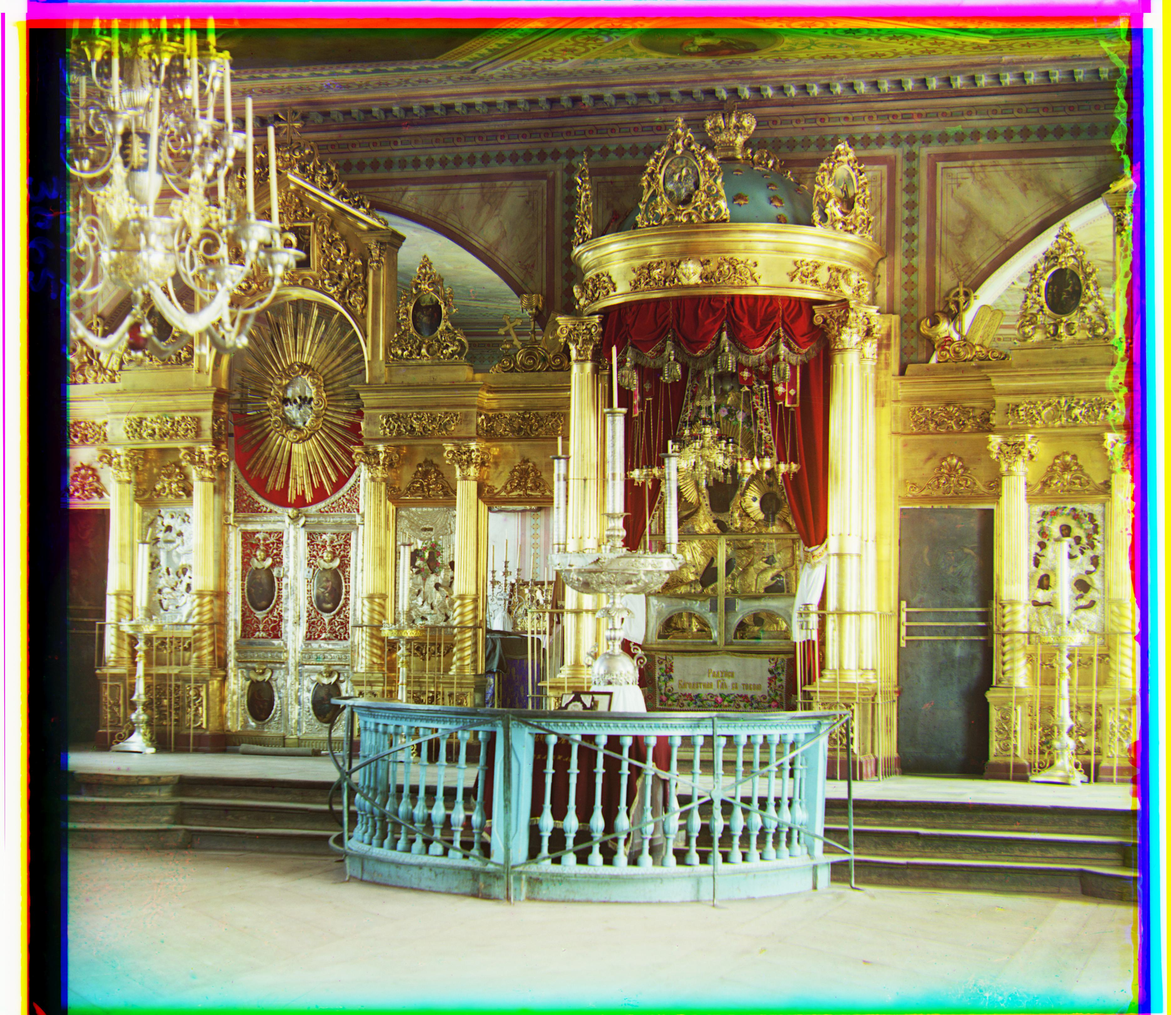
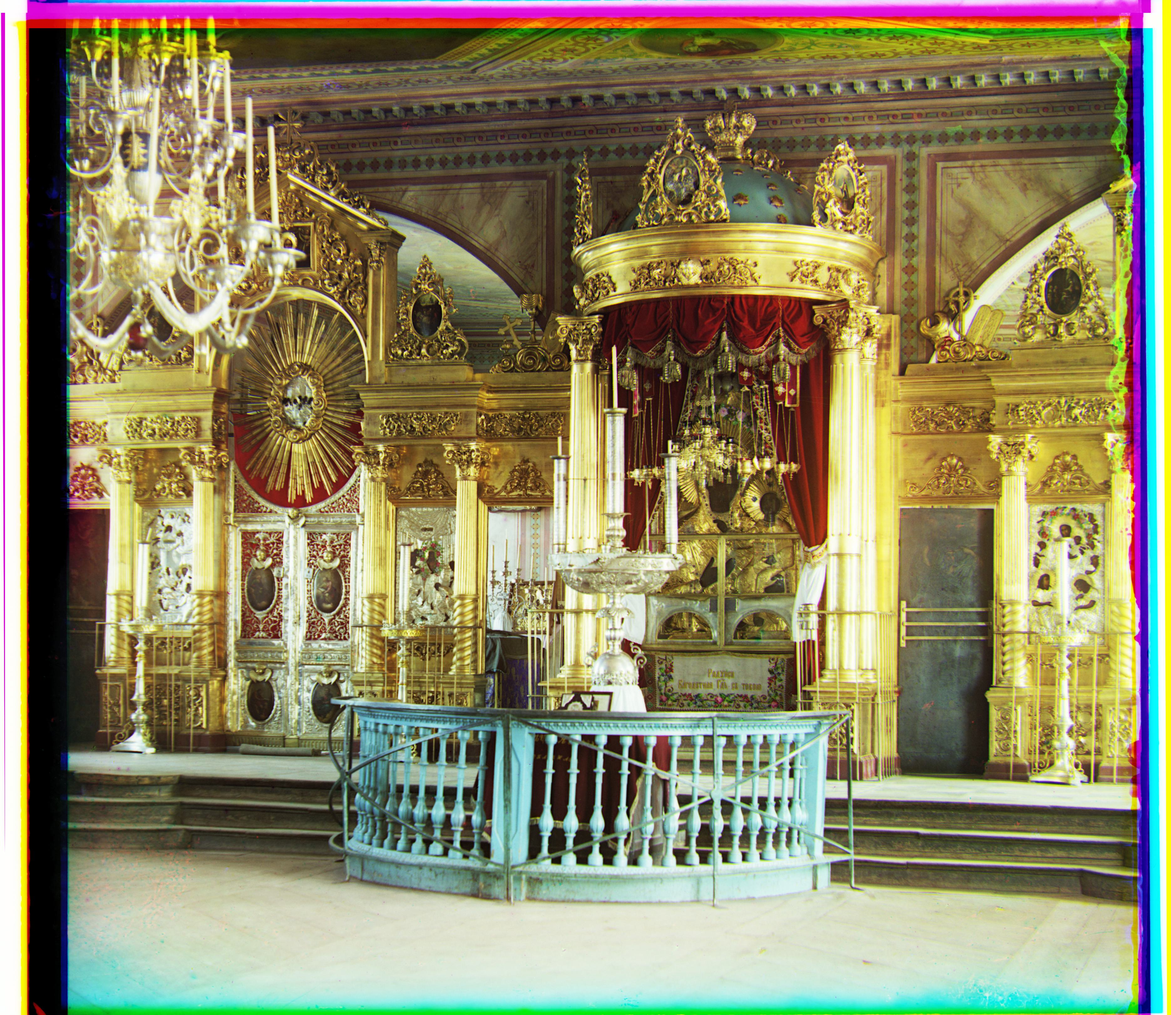
project-1 add final touches

diff --git a/project-1/index.html b/project-1/index.html
@@ -177,28 +177,29 @@ promising debug outputs:
 </table>
 <br>
 <h2>Bells & Whistles (Auto Contrast)</h2>
-In an effort to introduce more contrast into the image, I decided to stretch each channel such that the max value would
-be 255 and the min value would be 0. I effectively used a linear transformation but it seemed like there wasn't too
-many obvious effects. In particular, I believe it could be more effective to run auto-contrast on the perceived luminance
-rather than the individual channels since it did seem the images were dark but not literally with the individual channel
-values. Here is a comparison of before and after for some images:
+In an effort to introduce more contrast into the image, I decided to calculate the overall luminance for each pixel
+such that the darkest and brightest color of the image would be stretched to black / white. I effectively used a linear
+transformation but it seemed like there wasn't too many obvious effects. In particular, I disregarded the outside 1/8th
+of the pixels since I reasoned it had the least impact on the perceived image colors. I feel that it might've been better
+to use a curve for transformation but it seems that the images are already well distributed in terms of the luminance
+histogram.
 <br>
 <table>
     <tr style="vertical-align: top">
-        <td><img src="images/auto-contrast/before/train.jpg"/></td>
-        <td><img src="images/auto-contrast/after/train.jpg"/></td>
+        <td><img src="images/auto-contrast/before/church.jpg"/></td>
+        <td><img src="images/auto-contrast/after/church.jpg"/></td>
     </tr>
     <tr style="vertical-align: top">
-        <td><img src="images/auto-contrast/before/emir.jpg"/></td>
-        <td><img src="images/auto-contrast/after/emir.jpg"/></td>
+        <td><img src="images/auto-contrast/before/onion_church.jpg"/></td>
+        <td><img src="images/auto-contrast/after/onion_church.jpg"/></td>
     </tr>
     <tr style="vertical-align: top">
         <td><img src="images/auto-contrast/before/icon.jpg"/></td>
         <td><img src="images/auto-contrast/after/icon.jpg"/></td>
     </tr>
     <tr style="vertical-align: top">
-        <td><img src="images/auto-contrast/before/church.jpg"/></td>
-        <td><img src="images/auto-contrast/after/church.jpg"/></td>
+        <td><img src="images/auto-contrast/before/lady.jpg"/></td>
+        <td><img src="images/auto-contrast/after/lady.jpg"/></td>
     </tr>
     <tr style="vertical-align: top">
         <td><img src="images/auto-contrast/before/harvesters.jpg"/></td>
@@ -308,7 +309,7 @@ to use decreasingly smaller displacement search windows. In the end, my runs bec
         <div class="description">
             three_generations.jpg<br>
             Displacement:<br>
-            DD DD
+            [47 14] [111   9]
         </div>
     </div>
     <div class="gallery-item">
@@ -316,7 +317,7 @@ to use decreasingly smaller displacement search windows. In the end, my runs bec
         <div class="description">
             tobolsk.jpg<br>
             Displacement:<br>
-            DD DD
+            [3 3] [6 3]
         </div>
     </div>
     <div class="gallery-item">
@@ -324,7 +325,7 @@ to use decreasingly smaller displacement search windows. In the end, my runs bec
         <div class="description">
             train.jpg<br>
             Displacement:<br>
-            DD DD
+            [40  7] [85 34]
         </div>
     </div>
 </div>
